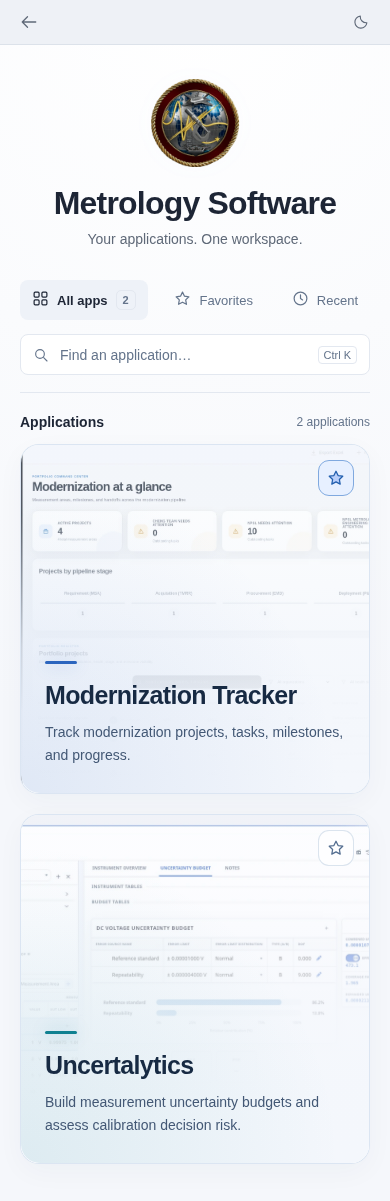
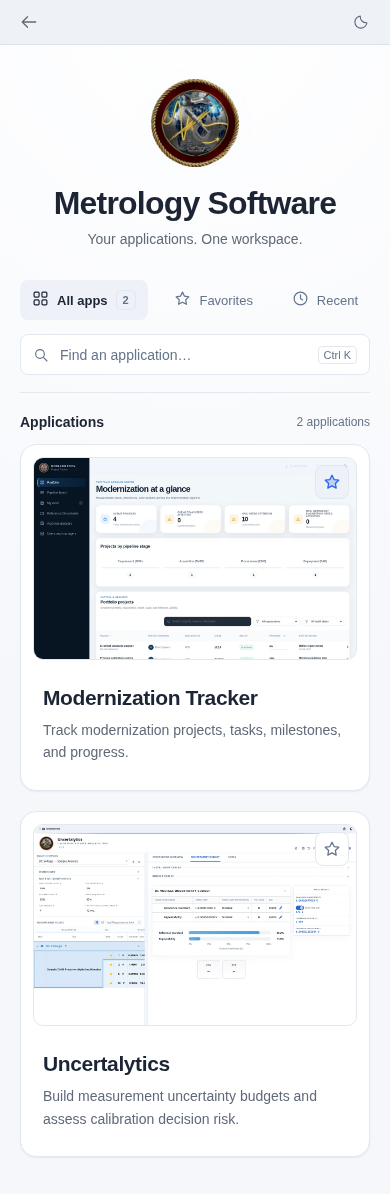
Restore original application thumbnail card layout

diff --git a/index.html b/index.html
@@ -21,37 +21,20 @@
 .card-link::after{content:"";position:absolute;inset:0;border-radius:16px;z-index:1}.card-link:focus-visible{outline:none}.card-link:focus-visible::after{outline:2px solid var(--primary);outline-offset:4px}.favorite{z-index:2}.fallback-link{display:block;margin:15px 0;padding:20px;border:1px solid var(--border);border-radius:16px;background:var(--surface)}
 .back-link{display:inline-flex;align-items:center;justify-content:center;width:34px;height:34px;border-radius:7px;color:var(--muted);transition:background .18s,color .18s}.back-link:hover{background:var(--icon-bg);color:var(--text)}.back-link svg{width:18px;height:18px}
 
-/* Full-bleed application backdrops. Images remain embedded and theme-aware. */
-.app-card{--card-ink:#0c1525;--card-rgb:12,21,37;--accent:112,175,255;isolation:isolate;overflow:hidden;display:flex;align-items:flex-end;min-height:300px;padding:38px;gap:0;border-radius:22px;background:var(--card-ink);border-color:rgba(149,183,226,.19);box-shadow:0 12px 32px #00000018;transition:transform .35s ease,border-color .35s ease,box-shadow .35s ease}
-.app-card:nth-child(2){--accent:98,211,222}
-.app-preview{position:absolute;inset:0;z-index:-3;overflow:hidden;pointer-events:none;background:var(--card-ink)}
-.app-preview img{position:absolute;right:-2%;top:0;display:block;width:82%;height:100%;object-fit:cover;object-position:center 12%;opacity:.88;transform:scale(1.025);transform-origin:75% 45%;filter:saturate(.82);transition:transform .7s cubic-bezier(.2,.7,.2,1),opacity .5s ease}
+/* Real application captures, embedded for single-file SharePoint hosting. */
+.app-card{padding:14px;gap:28px;align-items:center}
+.app-preview{flex:0 0 42%;aspect-ratio:8/5;overflow:hidden;border:1px solid var(--border);border-radius:10px;background:var(--background)}
+.app-preview img{display:block;width:100%;height:100%;object-fit:cover;object-position:top;transition:transform .3s ease}
 .app-preview .preview-light{display:none}
 :root[data-theme="light"] .app-preview .preview-dark{display:none}
 :root[data-theme="light"] .app-preview .preview-light{display:block}
-.app-card::before{content:"";position:absolute;inset:0;z-index:-2;pointer-events:none;background:linear-gradient(90deg,var(--card-ink) 0%,rgba(var(--card-rgb),.97) 22%,rgba(var(--card-rgb),.80) 40%,rgba(var(--card-rgb),.14) 73%,rgba(var(--card-rgb),.06)),linear-gradient(0deg,rgba(var(--card-rgb),.68),transparent 76%)}
-.app-card::after{content:"";position:absolute;inset:0;z-index:-1;pointer-events:none;border-radius:inherit;box-shadow:inset 0 1px 0 #ffffff0c;background:radial-gradient(ellipse at 0% 100%,rgba(var(--accent),.12),transparent 60%);transition:opacity .35s ease}
-.app-content{width:100%;padding:0;min-width:0}
-.app-top{min-height:0}
-.app-card h3{font-size:clamp(24px,2.6vw,30px);line-height:1.15;letter-spacing:-.65px;margin:0 40px 13px 0;color:#f2f6ff;max-width:430px;text-wrap:balance}
-.app-card h3::before{content:"";display:block;width:32px;height:3px;border-radius:3px;margin-bottom:22px;background:rgb(var(--accent));box-shadow:0 0 18px rgba(var(--accent),.32);transition:width .35s ease}
-.app-description{max-width:370px;font-size:15px;line-height:1.65;color:#bccbdf;text-wrap:pretty}
-.app-card .favorite{top:20px;right:20px;width:36px;height:36px;border-radius:11px;color:#c5d4e8;background:#122036b3;border:1px solid #b9d7ff29;backdrop-filter:blur(12px);-webkit-backdrop-filter:blur(12px)}
-.app-card .favorite:hover,.app-card .favorite[aria-pressed=true]{background:#253c5be6;color:#a8cfff;border-color:#a8cfff66}
-.app-card .card-link::after{border-radius:22px}
-.app-card:focus-within{border-color:rgba(var(--accent),.65)}
-.app-card .card-link:focus-visible::after{outline:2px solid rgb(var(--accent));outline-offset:-4px}
-@media(hover:hover) and (pointer:fine){.app-card:hover{transform:translateY(-4px);border-color:rgba(var(--accent),.45);box-shadow:0 18px 44px #00000026,0 0 30px rgba(var(--accent),.06)}.app-card:hover .app-preview img{transform:scale(1.07);opacity:1}.app-card:hover h3::before{width:52px}}
-:root[data-theme="light"] .app-card{--card-ink:#f4f7fc;--card-rgb:244,247,252;--accent:43,101,190;border-color:#b8cce46b;box-shadow:0 8px 28px #18345909}
-:root[data-theme="light"] .app-card:nth-child(2){--accent:16,129,145}
-:root[data-theme="light"] .app-card h3{color:#172a43}
-:root[data-theme="light"] .app-description{color:#435875}
-:root[data-theme="light"] .app-card .favorite{background:#ffffffb8;color:#536d90;border-color:#92adcd55}
-:root[data-theme="light"] .app-card .favorite:hover,:root[data-theme="light"] .app-card .favorite[aria-pressed=true]{color:#225fae;background:#e4eeffd9;border-color:#80a9df}
-@media(max-width:800px){.app-card{min-height:290px;padding:30px}.app-preview img{width:100%;right:-14%}.app-description{max-width:310px}}
-@media(max-width:620px){.app-card{min-height:350px;padding:26px 24px;display:flex;border-radius:19px}.app-preview img{inset:0;width:100%;height:100%;object-position:62% top;opacity:.78}.app-card::before{background:linear-gradient(0deg,var(--card-ink) 0%,rgba(var(--card-rgb),.98) 23%,rgba(var(--card-rgb),.83) 42%,rgba(var(--card-rgb),.12) 80%,rgba(var(--card-rgb),.06))}.app-card::after{background:radial-gradient(ellipse at 0% 100%,rgba(var(--accent),.1),transparent 65%)}.app-card h3{font-size:25px;margin:0 0 11px;max-width:100%}.app-card h3::before{margin-bottom:17px}.app-description{font-size:14px;max-width:100%}.app-card .favorite{top:15px;right:15px}.app-card .card-link::after{border-radius:19px}}
-@media(max-width:360px){.app-card{padding:23px 20px;min-height:335px}.app-card h3{font-size:23px}}
-@media(prefers-reduced-motion:reduce){.app-card,.app-preview img,.app-card h3::before{transition:none}.app-card:hover,.app-card:hover .app-preview img{transform:none}}
+.app-card:hover .app-preview img{transform:scale(1.025)}
+.app-content{padding:20px 24px 20px 0}
+.app-top{min-height:10px}
+.app-card h3{margin-right:8px}
+@media(max-width:800px){.app-card{gap:22px}.app-preview{flex-basis:43%}.app-content{padding-right:14px}.app-card h3{font-size:21px}}
+@media(max-width:620px){.app-card{padding:12px;display:block}.app-preview{width:100%;aspect-ratio:8/5}.app-content{padding:20px 10px 14px}.app-top{min-height:0}.app-card h3{padding-right:32px}.favorite{top:20px;right:20px;background:var(--surface);border-color:var(--border)}}
+@media(prefers-reduced-motion:reduce){.app-preview img{transition:none}.app-card:hover .app-preview img{transform:none}}
 </style>
 
 </head>

diff --git a/README.md b/README.md
@@ -32,5 +32,3 @@ Checked in Chromium: both configured URLs, whole-card pointer and keyboard navig
 ## App thumbnails
 
 Real local captures of Modernization Tracker and the Uncertalytics module in Metrology Workbench use illustrative sample data. Light and dark WebP previews are embedded in `index.html`; no image hosting is required. See `THUMBNAILS.txt` for capture details.
-
-Application screenshots form full-card backdrops with responsive directional gradients, theme-aware colors, subtle hover motion, and reduced-motion support. Cards retain their native links and independent favorite controls.
